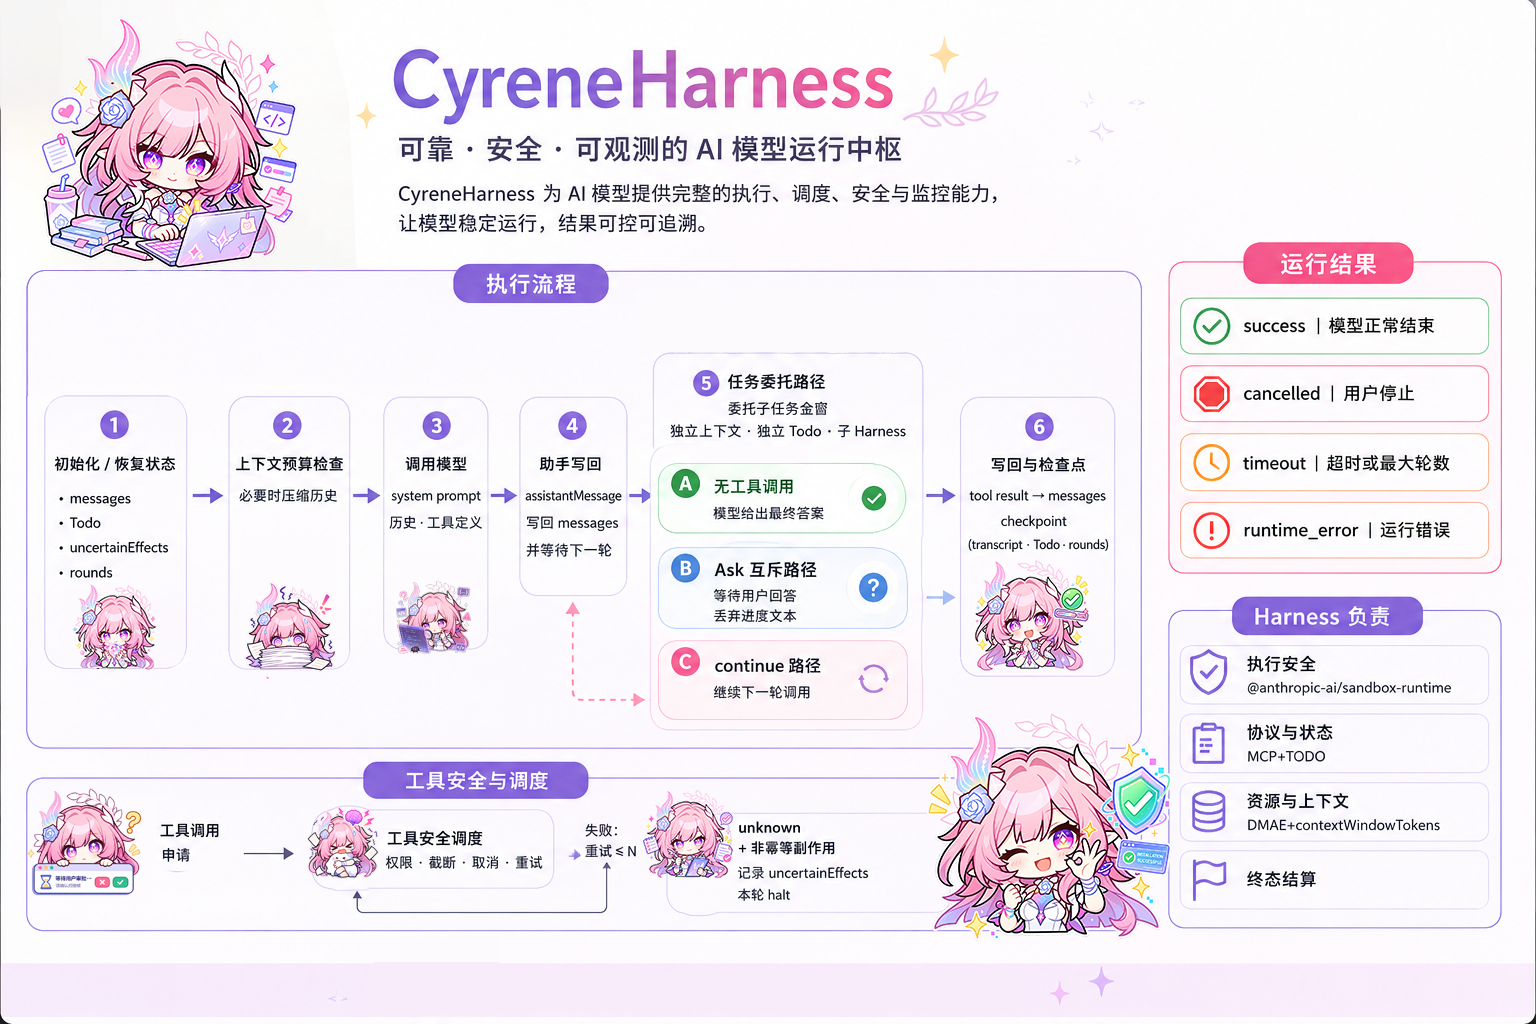
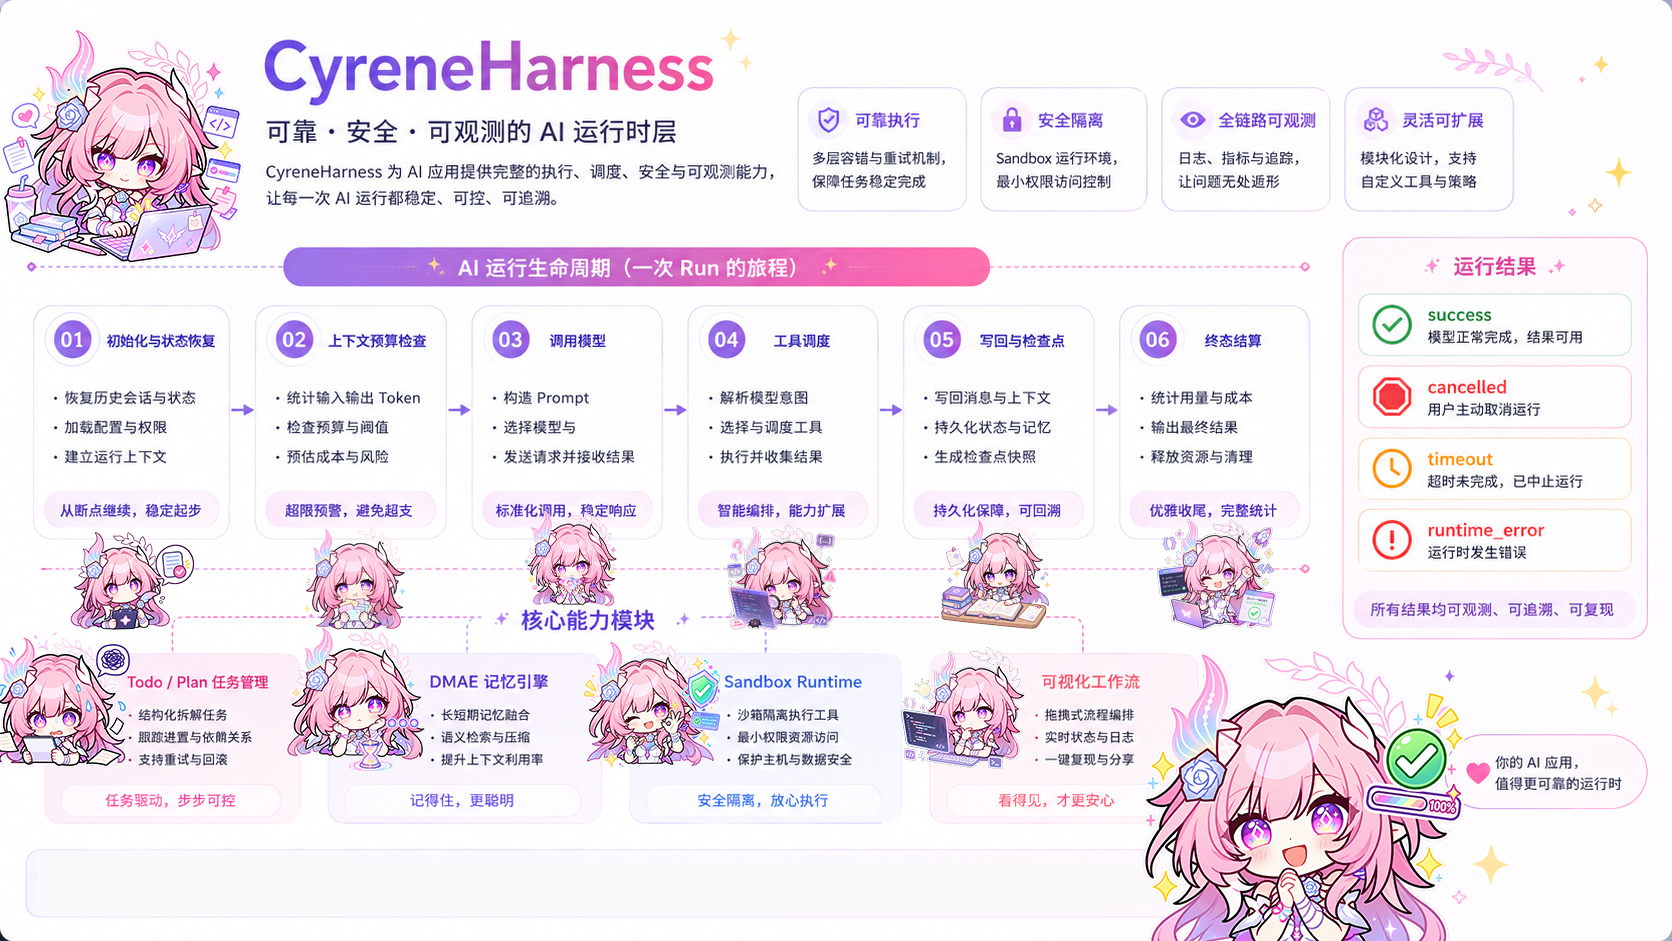
docs(readme): sync harness section with current implementation and redraw loop diagram
Remove stale max_rounds terminal state (now 4 states), drop removed Daily mode, add missing highlights (parallel scheduling, dual-clock timeout, prefix-cache discipline, two-tier output truncation, context snapshots), clarify persona layering, and update harness.png to the current flow.

diff --git a/README.en.md b/README.en.md
@@ -15,7 +15,7 @@
 > A desktop Live2D conversational Agent built with Electron and TypeScript.  
 > Centered around Cyrene's character design and powered by the self-developed Cyrene_Harness&DMAE memory engine,  
 > it brings character-driven conversation, personalized memory, voice interaction, tool use, and multi-platform access into a single desktop Agent,  
-> supporting five conversation modes: Chat, Work, Code, Learn, and Daily.
+> supporting four conversation modes: Chat, Work, Code, and Learn.
 
 ---
 
@@ -26,7 +26,6 @@
 - 🛠 **Assisted Work (Work)** — General-purpose task session that chains together web search, file processing, document generation, and lifestyle tools through the [CyreneHarness](./src/main/orchestrator/harness/cyrene-harness.ts) main loop
 - 💻 **Code Collaboration (Code)** — Binds a trusted code directory, provides LSP semantic queries (definitions / references / hover / symbols / diagnostics) plus restricted read/write/exec commands; safety is enforced by Harness's permission approval (Permission Policy) and Execution Policy
 - 📚 **Learning Companion (Learn)** — Binds an Obsidian Vault, accompanies users in understanding materials, organizing notes, generating exercises, and tracking progress
-- 📅 **Daily Affairs (Daily)** — General tool-enabled sessions for everyday Q&A, information organization, and light tasks
 - 🧠 **Personalized Memory** — L0 / L1 / L2 layered memory combined with the self-developed DMAE Worldbook for long-term interaction continuity
 - 🔊 **Voice Interaction** — Integrated TTS, ASR, and voice calls so Cyrene can listen and respond
 - 🧰 **Rich Tool Ecosystem** — Web search, file processing, document generation, everyday services, music, and MCP extensions
@@ -197,7 +196,6 @@ Configuration is stored in the application's `<userData>/` directory. Most chang
 | 🛠 Assisted Work (Work) | ✅ Available | Driven by [CyreneHarness](./src/main/orchestrator/harness/cyrene-harness.ts) |
 | 💻 Code Collaboration (Code) | ✅ Available | Binds a trusted code directory; Coding Agent reads, modifies, verifies code, and runs commands |
 | 📚 Learning Companion (Learn) | ✅ Available | Binds an Obsidian Vault to accompany understanding, take notes, generate exercises, and track progress |
-| 📅 Daily Affairs (Daily) | ✅ Available | Reuses the CyreneHarness main loop; a general-purpose tool session for everyday Q&A, information organization, and light tasks |
 | 🧠 Personalized Memory | ✅ Available | L0 / L1 / L2 layered memory, self-developed DMAE Worldbook, relationship profile, and long-term interaction continuity |
 | 🔊 Voice Interaction | ✅ Available | Multiple TTS engines, real-time ASR, voice calls, and VAD silence detection; some features require additional configuration |
 | 🧰 Built-in Tools | ✅ Available | Web search, webpage reading, file operations, document generation, everyday services, music, and more |
@@ -350,7 +348,7 @@ If OOM errors continue, use the Chrome DevTools Memory Profiler in development m
 
 #### ⚙ CyreneHarness Core Loop
 
-> `Work / Code / Daily` and any session mode that requires tool invocation runs on top of **CyreneHarness**.  
+> `Work / Code / Learn` and any session mode that requires tool invocation runs on top of **CyreneHarness**.  
 > Source: [`src/main/orchestrator/harness/cyrene-harness.ts`](./src/main/orchestrator/harness/cyrene-harness.ts)
 
 CyreneHarness is the core Agent Loop of Cyrene Agent. It chains **model decisions, tool execution, side-effect accounting, and state recovery** into a continuous loop that is interruptible, recoverable, and replayable.
@@ -362,18 +360,24 @@ CyreneHarness is the core Agent Loop of Cyrene Agent. It chains **model decision
 - **Exclusive Ask path** — `ask_user` / `confirm_uncertain_effect` are user-waiting built-in tools that monopolize the round: other co-round tools return `not_executed`, and the progress buffer is discarded before continuing.
 - **Four-state outcome with uncertainEffect interception** — Tool results fall into `success / failure / unknown / not_executed`. When `unknown` is paired with `sideEffect === non_idempotent`, the side effect is recorded into `state.uncertainEffects` and `halted = true` blocks further automatic replays of the same dangerous call within the round.
 - **Failure retry** — Failed tools decide whether to retry based on `classifyToolResultError` + `resolveSideEffect`; the `sleepWithJitter` backoff is interruptible via `AbortSignal`.
-- **Mid-loop Compaction** — Each round checks the token budget and triggers an LLM-driven summary when over the threshold, preserving todos and confirmed results.
+- **Conservative parallel scheduling** — Serial by default; only explicitly concurrency-safe read-only tools run in parallel (default limit 4). Results are always committed in the original tool-call order; on halt / error / cancel, already-executed results are never dropped, and failed slots are closed with synthetic failure results so the transcript stays consistent.
+- **Dual-clock timeout** — Execution time and user-wait time are tracked separately: while `ask_user` is waiting for the user, the execution clock is paused, so user thinking time never consumes the task timeout budget.
+- **Mid-loop Compaction** — Each round checks the token budget and triggers an LLM-driven summary when over the threshold, preserving todos and confirmed results; if the post-compaction checkpoint fails, the run aborts immediately without issuing another model request.
+- **Prefix-cache discipline** — Stable prefix layering (stablePrefix / sessionPrefix / mode); volatile state such as Todos is kept out of the prefix; the tool list is frozen for the whole run; dynamic facts are materialized into the transcript once instead of being re-appended every round; `cacheEpoch` advances across compaction / recovery; vendor cache hints such as Kimi's `prompt_cache_key` are injected uniformly at the request layer.
+- **Two-tier tool output truncation** — Large outputs are persisted to disk (`ToolOutputRef`) while model messages only keep a preview; the model can call the built-in `read_tool_result` tool to read the full output on demand, drastically reducing context usage.
+- **Context-usage snapshots** — A `context_usage` snapshot event is emitted before each model request and at terminal settlement, powering the live context-ring UI.
+- **Truncation made visible** — When the output hits the model's length limit (`finishReason = length`), a notice is appended to the reply instead of failing silently.
+- **Stream-first with fallback** — Falls back to non-streaming only when zero deltas were received and the vendor explicitly rejects stream + tools; a half-replayed stream never happens; token accounting distinguishes cache hits.
 - **Signal-aware throughout** — Almost every `await` is wrapped with `raceWithSignal`; `signal.aborted` returns `cancelled()` (with `finalAnswer = ''` and **no `final_answer` event emitted**).
 - **Per-round checkpoint** — `onCheckpoint` persists `messages + state + rounds` so execution can resume after a cross-process crash.
 
-**Five terminal states:**
+**Four terminal states:**
 
 | Status | `terminated` | `terminateReason` | Trigger |
 | :---: | :---: | :---: | --- |
 | ✅ success | `false` | `undefined` | Model ends the turn without invoking any tool |
 | ⚪ cancelled | `true` | `cancelled` | `AbortSignal` fires (`finalAnswer = ''`) |
 | 🟥 error | `true` | `error` | LLM throws or checkpoint fails |
-| 🟧 max_rounds | `true` | `max_rounds` | `config.maxRounds` reached |
 | 🟨 timeout | `true` | `timeout` | `config.totalTimeoutMs` exceeded |
 
 **Main flow:**
@@ -388,7 +392,7 @@ The modes below are consumers of this loop:
 
 ![Work mode preview](./docs/image/work.png)
 
-- **Driven by CyreneHarness** — Each message enters the while loop in [CyreneHarness](./src/main/orchestrator/harness/cyrene-harness.ts): every round calls the LLM → writes back the assistant message → dispatches tools → writes back tool results → checks uncertain effects → continues or ends. Pre-processors (CITA context understanding) run before the Harness entry, and permission approval filters unsafe tool calls before execution; the Soul persona layer generates the reply text after the Harness exit.
+- **Driven by CyreneHarness** — Each message enters the while loop in [CyreneHarness](./src/main/orchestrator/harness/cyrene-harness.ts): every round calls the LLM → writes back the assistant message → dispatches tools → writes back tool results → checks uncertain effects → continues or ends. Pre-processors (CITA context understanding) run before the Harness entry, and permission approval filters unsafe tool calls before execution; inside the loop, each round carries a compact execution persona ([`prompts/cyrene_harness.md`](./prompts/cyrene_harness.md)) that only governs expression style and never leaks into tool arguments — on conflict, "task correctness > clarity > Cyrene's style"; the full Soul persona layer generates the reply text after the Harness exit.
 - **Free tool chaining** — Web search, webpage reading, file R/W, document generation, and lifestyle tools can be combined on demand; the model picks the next tool without pre-orchestrated flows.
 - **Side-effect accounting** — When a non-idempotent side effect (sending email, modifying a remote file, etc.) has an unknown result, it is recorded into `state.uncertainEffects` and blocks automatic replay of the same dangerous call within the round.
 - **Failure retry and cancellation** — Tool failures retry based on error class and side-effect tier (with jittered backoff); `AbortSignal` can cancel at any time. Cancellation does not emit a "final reply" event to avoid misleading the user.
@@ -435,13 +439,6 @@ The modes below are consumers of this loop:
 - **Accompanied Understanding** — Helps users understand materials through questions, breakdowns, analogies, and discussion rather than doing the learning for them.
 - **Notes and Exercises** — Organizes concepts, generates exercises, and records reviews inside the Vault, automatically maintaining a learning-progress overview.
 - **Respects the User's Pace** — Re-explains when the user is stuck, advances when the user is ready, and never scolds the user for wrong answers.
-
-#### 📅 Daily Affairs (Daily)
-
-- **Reuses the CyreneHarness main loop** — The default general-purpose tool session for everyday Q&A, information organization, and light tasks.
-- **Flexible tool execution chain** — Uses the same Agent shell as Work mode and invokes search, file, lifestyle, and other tools as needed.
-- **Workspace binding** — Requires binding a trusted directory as the context root; file operations and tool execution stay within that directory.
-- **Legacy session compatibility** — Unclassified historical sessions default to Daily mode and bind to a migration workspace for smooth upgrades.
 
 #### 📝 Rich Text and Code Rendering
 
@@ -555,7 +552,7 @@ Cyrene includes many built-in and extensible tools, primarily covering the follo
 | Build Tool | Vite 7 |
 | UI Rendering | HTML / CSS + React 19 + Pixi.js 7 + Ant Design X + Chart.js |
 | Live2D | `pixi-live2d-display` 0.5.0-beta + Cubism Core |
-| Agent Main Loop | [CyreneHarness](./src/main/orchestrator/harness/cyrene-harness.ts) (while + Function Calling + streaming reasoning/tools) + Structured Output + Native Function Calling |
+| Agent Main Loop | [CyreneHarness](./src/main/orchestrator/harness/cyrene-harness.ts) (while + Function Calling + streaming reasoning/tools + prefix-cache layering + mid-loop compaction) + Structured Output + Native Function Calling |
 | Agent Event Protocol | AG-UI (`@ag-ui/core`, `@ag-ui/client`) — decoupled from the renderer through `RUN_STARTED / STEP_* / TEXT_MESSAGE_* / TOOL_CALL_* / RUN_FINISHED` and other events |
 | Tool Dispatching | Self-developed `tool-dispatcher` + `side-effect-resolver` + `error-classifier` + `retry-policy` quartet, handling the four-state outcome (success / failure / unknown / not_executed) |
 | Sandbox Execution (Windows) | `@anthropic-ai/sandbox-runtime` (SRT) — untrusted commands run through `SandboxManager.wrapWithSandboxArgv`; falls back to direct `spawn` when not installed, with `workspace_mutation` commands still rejected |

diff --git a/README.md b/README.md
@@ -215,7 +215,7 @@ npm run package:win:dir
 
 #### ⚙ CyreneHarness 核心循环
 
-> `Work / Code / Daily` 等需要工具调用的会话模式，全部跑在 **CyreneHarness** 之上。
+> `Work / Code / Learn` 等需要工具调用的会话模式，全部跑在 **CyreneHarness** 之上。
 > 源码：[`src/main/orchestrator/harness/cyrene-harness.ts`](./src/main/orchestrator/harness/cyrene-harness.ts)
 
 CyreneHarness 是 Cyrene Agent 的核心 Agent Loop，负责把**模型决策、工具执行、副作用记账与状态恢复**串成一个可中断、可恢复、可回放的连续循环。
@@ -227,18 +227,24 @@ CyreneHarness 是 Cyrene Agent 的核心 Agent Loop，负责把**模型决策、
 - **Ask 互斥路径** — `ask_user` / `confirm_uncertain_effect` 是用户等待类内置工具，必须独占本轮：其余同轮工具全部以 `not_executed` 协议结果写回，并 `discardProgressBuffer()` 丢弃进度文本。
 - **四态 outcome 与 uncertainEffects 拦截** — 工具结果分为 `success / failure / unknown / not_executed`。当 `unknown` 且 `sideEffect === non_idempotent` 时，副作用会被记入 `state.uncertainEffects`，并 `halted = true` 暂停本轮后续同类调用，防止自动重放危险副作用。
 - **失败重试** — 工具失败时根据 `classifyToolResultError` + `resolveSideEffect` 决定是否重试；`sleepWithJitter` 退避可被 `AbortSignal` 中断。
-- **Mid-loop Compaction** — 每轮开始时根据 token 预算判断是否需要压缩上下文，超阈值时复用 LLM 做历史摘要，保留 todo 与已确定结果。
+- **保守并行调度** — 默认串行，仅"显式声明并发安全的纯读工具"可并行（默认上限 4）；结果始终按模型原始 tool-call 顺序提交；halt / error / cancel 时已执行结果不丢弃，出错槽位以合成失败结果闭合 transcript。
+- **双时钟超时** — 执行计时与用户等待计时分离：`ask_user` 等待用户期间暂停执行计时，用户思考多久都不消耗任务超时预算。
+- **Mid-loop Compaction** — 每轮开始时根据 token 预算判断是否需要压缩上下文，超阈值时复用 LLM 做历史摘要，保留 todo 与已确定结果；压缩后 checkpoint 失败立即熔断，不再发起模型请求。
+- **前缀缓存体系** — 稳定前缀分层（stablePrefix / sessionPrefix / mode），Todo 等易变状态禁止进入前缀；工具清单在 run 期间冻结；动态事实一次性物化进 transcript 而非每轮拼接；`cacheEpoch` 缓存周期跨压缩 / 恢复推进；Kimi `prompt_cache_key` 等厂商缓存 hints 在请求层统一注入。
+- **工具输出双级截断** — 大输出落盘存储（`ToolOutputRef`），模型消息只保留 preview；需要完整内容时由模型调用内置 `read_tool_result` 按需回读，大幅降低上下文占用。
+- **上下文容量快照** — 每轮请求前与终态各发一次 `context_usage` 快照事件，驱动 UI 上下文环实时显示。
+- **截断可见化** — 输出命中模型长度上限（`finishReason = length`）时在回复尾部追加提示，不静默截断。
+- **流式优先与降级** — 仅在零增量且供应商明确不支持 stream + tools 时降级非流式，绝不重放半截流；token 用量记账区分缓存命中。
 - **全程 signal-aware** — 几乎每个 `await` 都用 `raceWithSignal` 包裹，`signal.aborted` 时返回 `cancelled()`（`finalAnswer = ''`，**不发 `final_answer` 事件**）。
 - **每轮 checkpoint** — 通过 `onCheckpoint` 把 `messages` + `state` + `rounds` 持久化，跨进程崩溃后可恢复。
 
-**5 种终止状态：**
+**4 种终止状态：**
 
 | 状态 | `terminated` | `terminateReason` | 触发条件 |
 | :---: | :---: | :---: | --- |
 | ✅ success | `false` | `undefined` | 模型不再调用工具，主动结束当前 turn |
 | ⚪ cancelled | `true` | `cancelled` | `AbortSignal` 触发（`finalAnswer = ''`） |
 | 🟥 error | `true` | `error` | LLM 抛错或 checkpoint 失败 |
-| 🟧 max_rounds | `true` | `max_rounds` | 达到 `config.maxRounds` |
 | 🟨 timeout | `true` | `timeout` | 超过 `config.totalTimeoutMs` |
 
 **主流程示意：**
@@ -253,7 +259,7 @@ CyreneHarness 是 Cyrene Agent 的核心 Agent Loop，负责把**模型决策、
 
 ![Work 模式示意](./docs/image/work.png)
 
-- **CyreneHarness 主循环驱动** — 单条消息进入 [CyreneHarness](./src/main/orchestrator/harness/cyrene-harness.ts) 的 while 循环：每轮调用 LLM → 写回 assistant 消息 → 派发工具 → 写回 tool result → 检查不确定副作用 → 继续或结束。预处理器（CITA 上下文理解）在 Harness 入口前完成，人设层（Soul）在 Harness 出口后生成回复文本。
+- **CyreneHarness 主循环驱动** — 单条消息进入 [CyreneHarness](./src/main/orchestrator/harness/cyrene-harness.ts) 的 while 循环：每轮调用 LLM → 写回 assistant 消息 → 派发工具 → 写回 tool result → 检查不确定副作用 → 继续或结束。预处理器（CITA 上下文理解）在 Harness 入口前完成；循环内每轮携带精简执行人设（[`prompts/cyrene_harness.md`](./prompts/cyrene_harness.md)，只约束表达风格、不污染工具参数，冲突时按「任务正确性 > 信息清晰 > 昔涟风格」取舍）；完整人设层（Soul）在 Harness 出口后生成回复文本。
 - **工具自由串联** — 支持联网搜索、网页读取、文件读写、文档生成、生活服务等工具按需组合调用；模型可自行决定下一个工具，无需预先编排流程。
 - **副作用记账** — 非幂等副作用（发送邮件、修改远端文件等）结果未知时，会写入 `state.uncertainEffects` 并停止本轮同类自动重放，避免危险操作被无声重复。
 - **失败重试与中断** — 工具失败按错误分类与副作用等级决定是否重试（带退避抖动），随时可通过 `AbortSignal` 取消；取消时不会发出"最终回复"，避免误导用户。
@@ -317,7 +323,7 @@ CyreneHarness 是 Cyrene Agent 的核心 Agent Loop，负责把**模型决策、
 - **Cyrene Music 独立窗口** — 桌面端内置「Cyrene Music」播放器，支持歌单标签切换、本地缓存与播放列表管理，沉浸感更强。
 - **网易云音乐数据源** — 通过自研 `NeteaseOpenapiProvider` 调用网易云 OpenAPI，提供搜索歌曲 / 艺人 / 专辑、每日推荐、我的歌单与收藏等能力。
 - **mpv 内置播放** — 由 `MpvController` 启动打包在 `resources/bin/mpv/mpv.exe` 中的 mpv 进程，通过命名管道（Windows）或 Unix socket 收发 JSON IPC 命令，实现加载、播放、暂停、跳转、音量、停止等控制，无需唤起外部客户端。
-- **多工具串联** — 在 `Work / Daily` 模式中可与其他工具（联网搜索、文件、文档等）组合完成「搜歌 → 加入歌单 → 播放」等连续任务。
+- **多工具串联** — 在 `Work / Learn` 模式中可与其他工具（联网搜索、文件、文档等）组合完成「搜歌 → 加入歌单 → 播放」等连续任务。
 - **懒启动 + 可降级** — 音乐后端在首次真实音乐操作时才建立网络会话，空闲时不会占用资源；mpv 缺失时会进入 `client_unavailable` 路径并向 UI 提示，不影响聊天与其他核心功能。
 
 #### 🧠 个性化记忆
@@ -424,7 +430,6 @@ Cyrene 内置和扩展的工具较多，主要覆盖以下类别：
 | 🛠 辅助工作（Work） | ✅ 可用 | 由 [CyreneHarness](./src/main/orchestrator/harness/cyrene-harness.ts) 统一驱动：CITA 上下文理解 + 权限审批过滤 + 主循环工具调度 + 不确定副作用记账 + 可恢复 checkpoint；人设层（Soul）在出口生成回复文本 |
 | 💻 代码协作（Code） | ✅ 可用 | 绑定可信代码目录，Coding Agent 读取、修改、验证代码并执行命令 |
 | 📚 学习陪伴（Learn） | ✅ 可用 | 绑定 Obsidian Vault，陪伴理解材料、整理笔记、生成练习与维护进度 |
-| 📅 日常事务（Daily） | ✅ 可用 | 通用工具会话，处理日常问答、信息整理与轻度任务 |
 | 🧠 个性化记忆 | ✅ 可用 | L0 / L1 / L2 分层记忆、自研 DMAE Worldbook、关系画像与长期互动沉淀 |
 | 🔊 语音交互 | ✅ 可用 | 支持多 TTS 引擎、实时 ASR、语音通话与 VAD 静默检测，部分功能需要额外配置 |
 | 🧰 内置工具 | ✅ 可用 | 支持联网搜索、网页读取、文件操作、文档生成、生活服务、音乐等工具 |
@@ -451,7 +456,7 @@ Cyrene 内置和扩展的工具较多，主要覆盖以下类别：
 | 构建工具 | Vite 7 |
 | 界面渲染 | HTML / CSS + React 19 + Pixi.js 7 + Ant Design X + Chart.js |
 | Live2D | `pixi-live2d-display` 0.5.0-beta + Cubism Core |
-| Agent 主循环 | [CyreneHarness](./src/main/orchestrator/harness/cyrene-harness.ts)（while + Function Calling + 流式 reasoning/tool） + Structured Output + Native Function Calling |
+| Agent 主循环 | [CyreneHarness](./src/main/orchestrator/harness/cyrene-harness.ts)（while + Function Calling + 流式 reasoning/tool + 前缀缓存分层 + mid-loop compaction） + Structured Output + Native Function Calling |
 | Agent 事件协议 | AG-UI（`@ag-ui/core`、`@ag-ui/client`）— 通过 `RUN_STARTED / STEP_* / TEXT_MESSAGE_* / TOOL_CALL_* / RUN_FINISHED` 等事件与渲染进程解耦 |
 | 工具调度 | 自研 `tool-dispatcher` + `side-effect-resolver` + `error-classifier` + `retry-policy` 四件套，统一处理四态 outcome（success / failure / unknown / not_executed） |
 | 沙箱执行（Windows） | `@anthropic-ai/sandbox-runtime`（SRT）— 非可信命令走 SandboxManager.wrapWithSandboxArgv；未安装时回退直接 spawn，workspace_mutation 命令仍被拒绝 |
